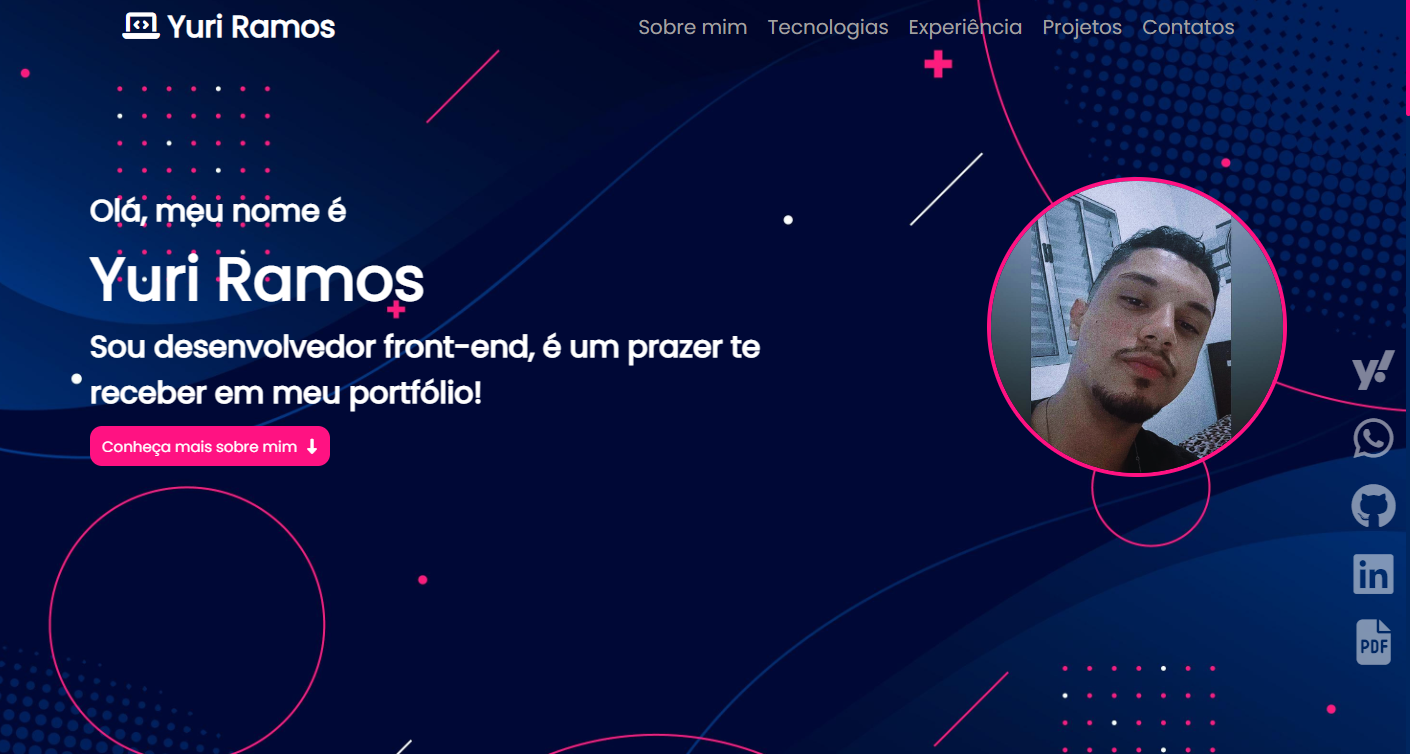
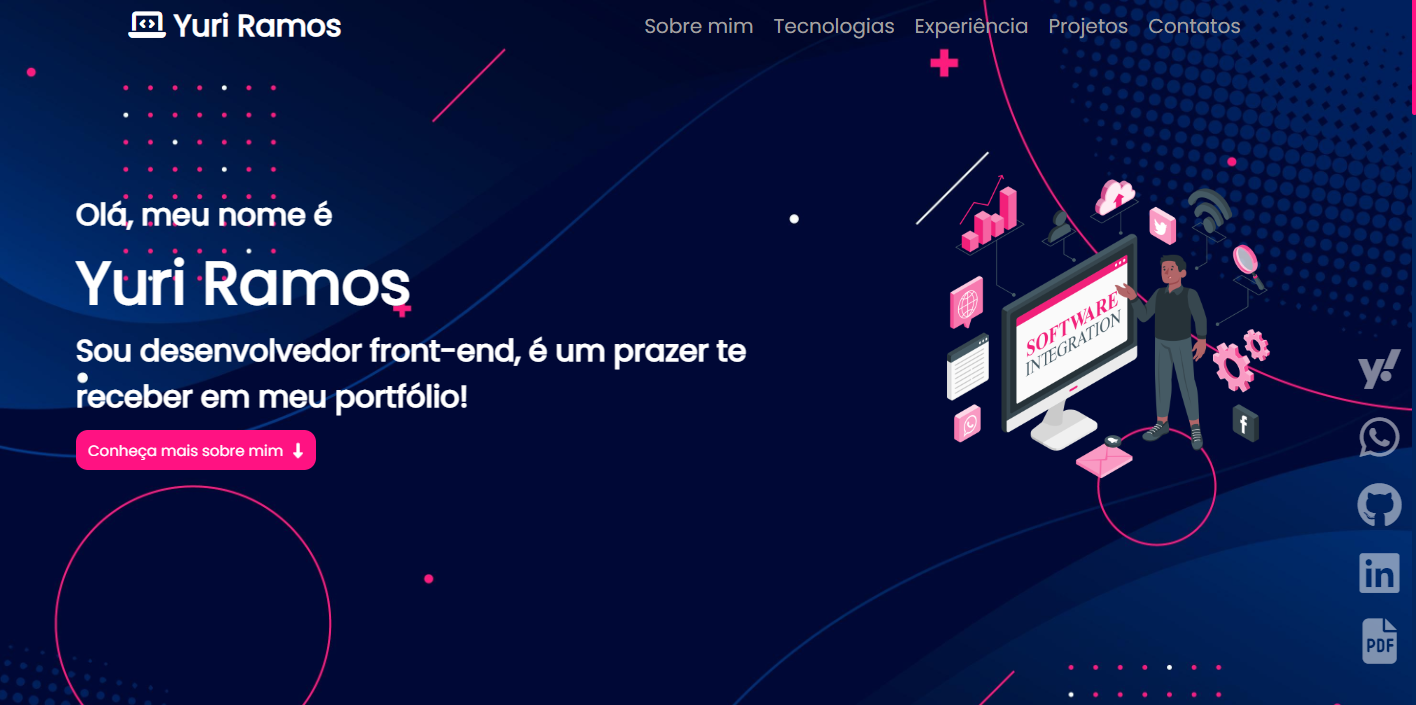
Mudanças na imagem principal e também na seção About Us, além ddo ajuste do botão inicial, fora implementado a animação scroll behavior smooth no mesmo.

diff --git a/index.html b/index.html
@@ -6,7 +6,7 @@
     <meta http-equiv="X-UA-Compatible" content="IE=edge">
     <meta name="viewport" content="width=device-width, initial-scale=1.0">
     <title> Yuri Ramos | Portfólio </title>
-    <link rel="shortcut icon" href="./Images/favicon.ico" type="image/x-icon">
+    <link rel="shortcut icon" href="./Images/faviconn.ico" type="image/x-icon">
     <link rel="stylesheet" href="./CSS/reset.css">
     <link rel="stylesheet" href="./CSS/style.css">
     <link rel="stylesheet" href="./CSS/mediaquery.css">
@@ -50,14 +50,14 @@
                     <h1> Yuri Ramos </h1>
                     <h2>Sou desenvolvedor front-end, é um prazer te receber em meu portfólio!</h2>
                     <button class="btn--sectionOne">
-                        <a class="sectionOne-LinkBtn item-" href="#sobremim">Conheça mais sobre mim <i
+                        <a class="sectionOne-LinkBtn" href="#sobremim">Conheça mais sobre mim <i
                                 class="fa-solid fa-down-long arrowDown--btn  "></i></a></button>
                 </div>
             </div>
 
 
 
-            <img class="image--profile" src="./Images/yuriperfil.png" alt="Foto do Yuri Ramos, criador do portfolio"> </img>
+            <img class="image--inicial" src="./Images/yuriperfil.png" alt="Foto do Yuri Ramos, criador do portfolio"> </img>
 
 
         </section>
@@ -94,8 +94,8 @@
 
                 <div class="area--aboutUs">
 
-                    <img class="image--aboutUs" src="./Images/Hand coding-amico (1).png"
-                        alt="ilustracao-de-um-menino-codando">
+                    <img class="image--aboutUs" src="./Images/yuri-aboutUs.png"
+                        alt="foto-do-yuri-ramos">
 
                     <div  class="text-aboutUs">
                         <h2> Olá! Eu sou o Yuri, Front-end Developer. </h2>
@@ -317,7 +317,7 @@
                     <div class="components--cards">
                         <img class="img--projetos" src="./Images/portfólio-projeto.png" alt="imagem-do-projeto">
                         <p class="titulo--projeto"> Portfólio - Yuri Ramos </p>
-                        <p class="descricao--projeto"> Projeto desenvolvido para uploads dos demais projetos e também para fixação dos estudos!
+                        <p class="descricao--projeto"> Projeto desenvolvido para uploads dos meus projetos e também para fixação dos estudos!
                             <i class="fa-solid fa-mug-hot"></i>
                         </p>
 

diff --git a/script.js b/script.js
@@ -4,7 +4,8 @@ const header = document.querySelector('.header');
 const menuBtn = document.querySelector('.menu-mobile');
 const nav = document.querySelector('.navigation');
 const itemlinks = document.querySelectorAll('.items-nav a[href^="#"');
-console.log(itemlinks);
+const btn_aboutUs = document.querySelector('.sectionOne-LinkBtn');
+
 //*Variáveis*/
 
 //**Menu Mobile */
@@ -32,7 +33,6 @@ function scrollMenu(event){
         block:'start',
     });
  // Scroll de animação dos links internos //
-
  //Scroll de Animação dos links internos com menu mobile ativado //
     menuBtn.classList.remove('active');
      nav.classList.remove('active');
@@ -45,3 +45,14 @@ itemlinks.forEach((item) =>{
 
 
 //**Comportamento dos links internos do Menu Toogle *
+
+btn_aboutUs.addEventListener('click', (event)=>{
+    event.preventDefault();
+    const e = event.target;
+    const att = e.getAttribute('href');
+    const section = document.querySelector(att);
+    section.scrollIntoView({
+        behavior:'smooth',
+        block:'start',
+    });
+})

diff --git a/CSS/style.css b/CSS/style.css
@@ -102,13 +102,14 @@ nav a:hover::after {
 
 
 .section--One {
-    padding: 20px;
+    padding: 0px 20px;
     margin-top: 100px;
     display: flex;
     flex-wrap: wrap-reverse;
     justify-content: space-around;
     align-items: center;
     width: 100%;
+
 }
 
 
@@ -169,11 +170,15 @@ width: 100%;
 
 
 
-.image--profile {
-    width: 300px;
-    height: 300px;
-    border-radius: 50%;
-    border: 4px solid #FF1282;
+.image--inicial {
+    width: 350px;
+    height: 350px;
+    margin-right: 30px;
+   
+    /* border-radius: 50%;
+    border: 4px solid #FF1282; */
+    background-repeat: no-repeat;
+    
 }
 
 
@@ -298,6 +303,8 @@ width: 100%;
     height: auto;
     max-width: 250px;
     margin-right: 10px;
+    border-radius: 50%;
+    border: 2px solid #F01475;
 }
 
 

diff --git a/CSS/mediaquery.css b/CSS/mediaquery.css
@@ -1,6 +1,12 @@
 @media (min-width: 320px) and (max-width:479px){
     
     /**Conteúdo primário */
+    .image--inicial{
+        width: 300px;
+        height: auto;
+        margin-right: 0px;
+    }
+
     .text-aboutUs{
         margin-left: 0;
         padding: 0px 10px;
